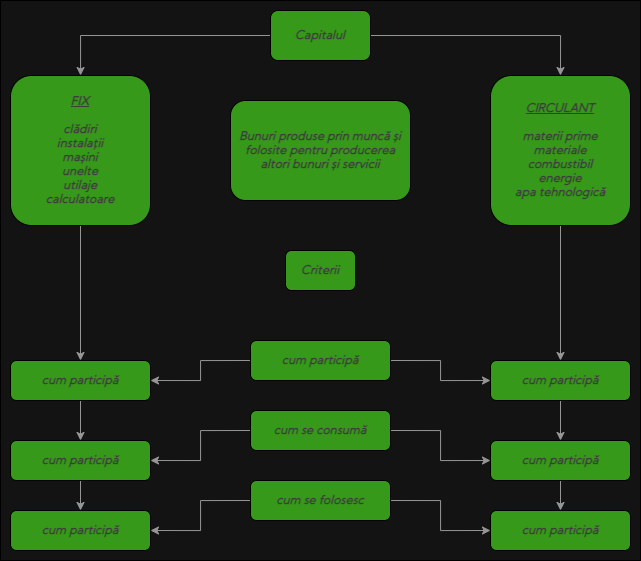
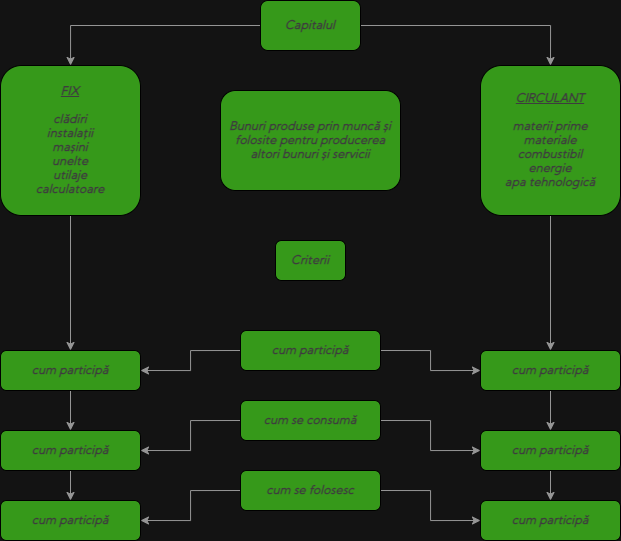
graphic tweaks.

Changed region(s): [[0.0, 0.0, 1.0, 1.0], [0.3366, 0.1479, 0.6425, 0.3549], [0.306, 0.8577, 0.7037, 0.9464]]

diff --git a/src/App.js b/src/App.js
@@ -109,7 +109,7 @@ export default function App() {
                 de producție.
               </Paragraph>
               <Divider />
-              <Graphic src={ComponenteleCapitaluluiGr} alt='componentele capitalului' width='600px' />
+              <Graphic src={ComponenteleCapitaluluiGr} alt='componentele capitalului' />
               <Divider />
             </ContentSection>
           </ContentContainer>

diff --git a/src/components/graphic/GraphicElements.js b/src/components/graphic/GraphicElements.js
@@ -1,6 +1,15 @@
 import styled from 'styled-components';
+import Breakpoints from '../../Breakpoints';
 
 export const GraphicContainer = styled.div`
   margin: 0 auto;
-  width: ${props => props.width};
+  width: 600px;
+
+  @media (max-width: ${Breakpoints.tablet}) {
+    width: 500px;
+  }
+
+  @media (max-width: ${Breakpoints.phone}) {
+    width: 250px;
+  }
 `;
